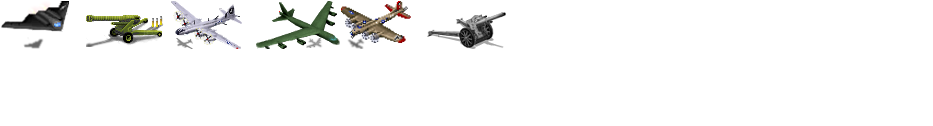
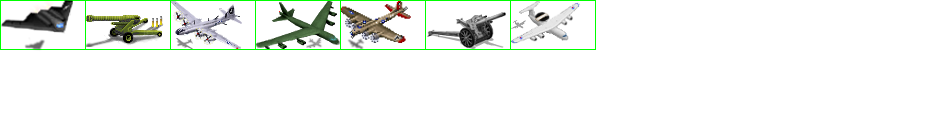
New graphics
AWACS, Cruise Missile, Stealth Bomber, Transport Helicopter
Enrichment Facility
The Internet, Seti Program, JTIDS, Shakespeare's Theatre, Temple of Artemis, United Nations
Ceremonial burial, Miniaturization,

Changed region(s): [[0.0, 0.0, 0.6527, 0.3571], [0.0, 0.3095, 0.6527, 0.4048]]

diff --git a/freeciv-web/src/main/webapp/javascript/2dcanvas/tilespec.js b/freeciv-web/src/main/webapp/javascript/2dcanvas/tilespec.js
@@ -2171,8 +2171,9 @@ function create_unit_offset_arrays()
           vx += 8; vy -= 8;
           break;
       case "AWACS":                     
-          dx += 3; dy += 5;
-          mx -= 7; my += 6; 
+          dx -= 17; dy += 3;
+          mx -= 7; my += 6;
+          sx = 8;
           break;    
       case "Battleship":
           dx -= 5; dy -= 7;
@@ -2206,9 +2207,13 @@ function create_unit_offset_arrays()
           dx -= 2; dy -= 3;
           vx -= 11; vy += 4;
           mx -= 6;  my += 7;
-          break; 
+          break;
       case "Cruiser":
           vx -= 13; vy += 15;
+          break;
+      case "Cruise Missile":
+          dx -= 8; dy -= 7;
+          vx -= 23; vy += 15;
           break;
       case "Crusaders":
           vx -= 3; vy -= 12;
@@ -2364,6 +2369,9 @@ function create_unit_offset_arrays()
       case "Transport":
           dx -= 3; dy -= 1;
           vx -= 23; vy += 12;
+          break;
+      case "Transport Helicopter":
+          vx -= 24; vy += 15;
           break;
       case "Trireme":
           vx += 2; vy += 1;
